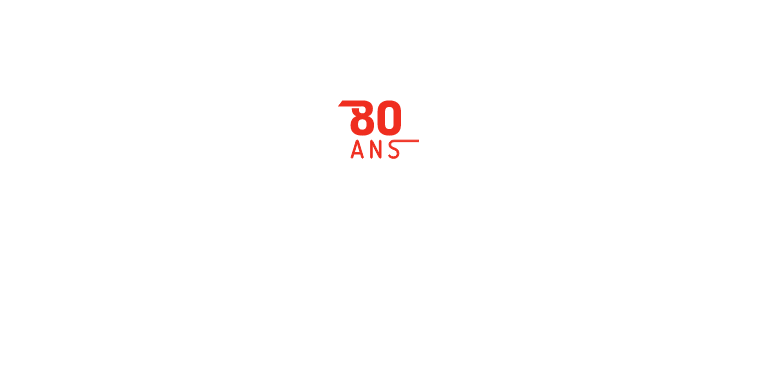
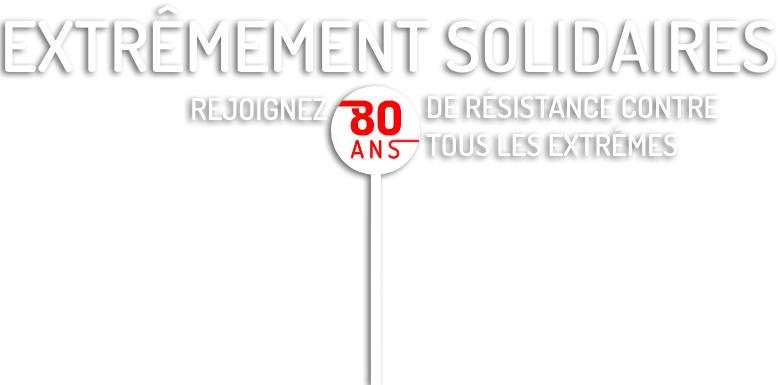
resolved video and shodow header issues

Changed region(s): [[0.0, 0.0, 1.0, 1.0]]

diff --git a/index.html b/index.html
@@ -62,9 +62,9 @@
 
     <div class="container-fluid" style="z-index: 700;">
         <div class="row" style="position: relative">
-            <div class="col-lg-12 col-xs-12 no-padding" style=" height: 100vh">
-                <video poster="assets/Header.png" id="bgvid" playsinline autoplay muted>
-                    <source src="assets/Cimade%20FA2019%20intro%20site.mp4" type="video/mp4">
+            <div class="col-lg-12 col-xs-12 no-padding" style=" height: 100vh; background-image: url('assets/Header.png'); background-size: cover; background-repeat: no-repeat" >
+                <video poster="assets/Header.png" height="100vh" id="bgvid" playsinline autoplay muted style="z-index: 2; display: initial">
+                    <source src="assets/Cimade%20FA2019%20intro%20site_1.mp4" type="video/mp4">
                 </video>
                 <div class="row">
                     <div class="col-lg-6 col-xs-6" style="margin-top: 20px;z-index: 10">
@@ -74,7 +74,7 @@
                     </div>
                     <div class="col-lg-6 col-xs-6 OpenSans blanc_pur vertical-align-col"
                         style="margin-top: 20px; height: 82px; text-align: right; font-size: 16px; padding-right: 260px; z-index: 4">
-                        <span class="vertical-align-innerCol hideMobile">
+                        <span class="vertical-align-innerCol hideMobile" style="text-shadow: 1px 1px black">
                             Partagez :
                         </span>
                         <a href="https://twitter.com/intent/tweet?url=https://agir.lacimade.org/extremement-solidaires"

diff --git a/js/header.js b/js/header.js
@@ -13,3 +13,8 @@ $(window).resize(function () {
         $("#titleHeader").css("margin-left", "-389px");
     }
 });
+
+var video= $('#bgvid').get(0);
+video.addEventListener('ended',function(){
+    video.style.display = 'none';
+},false);
